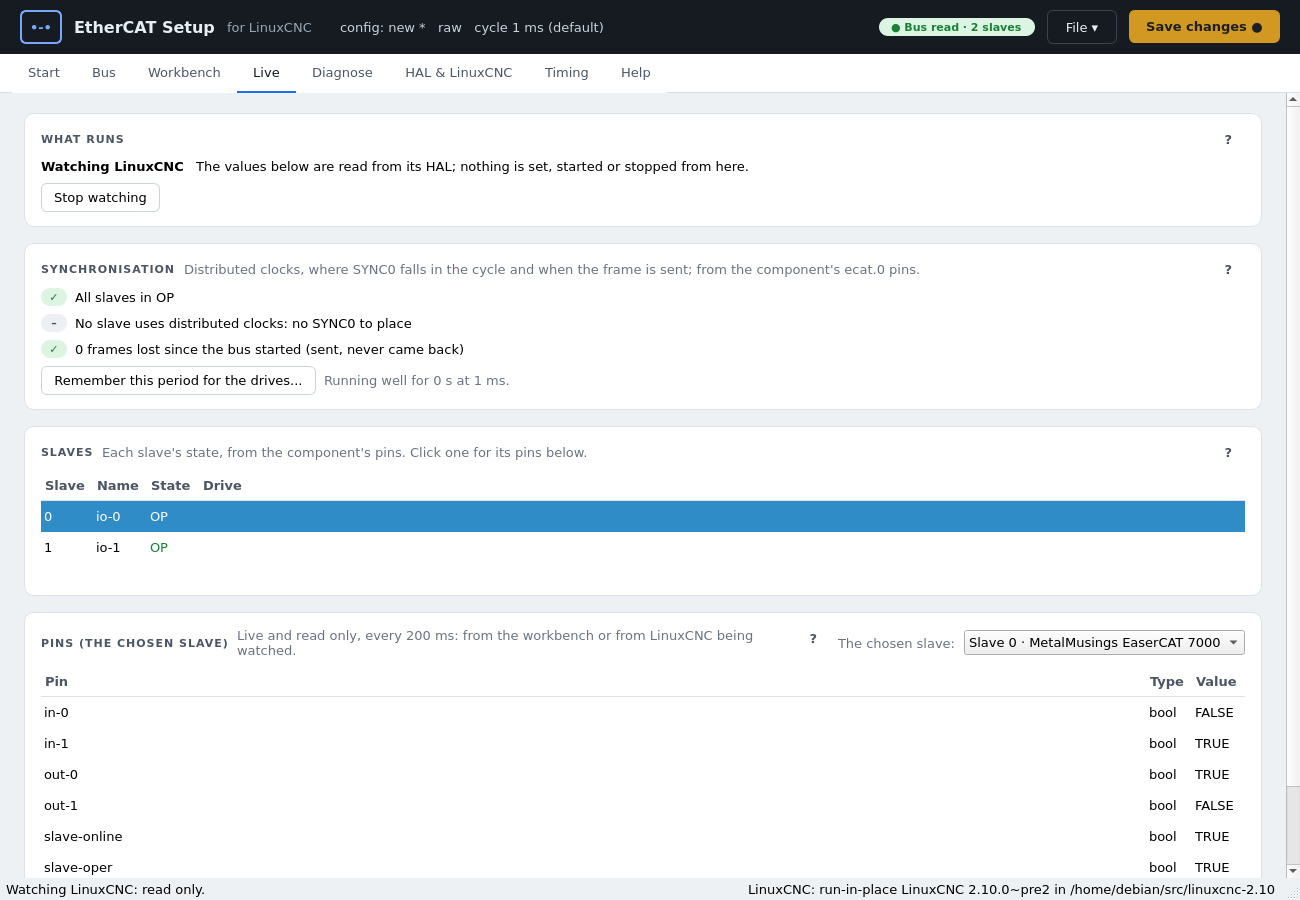
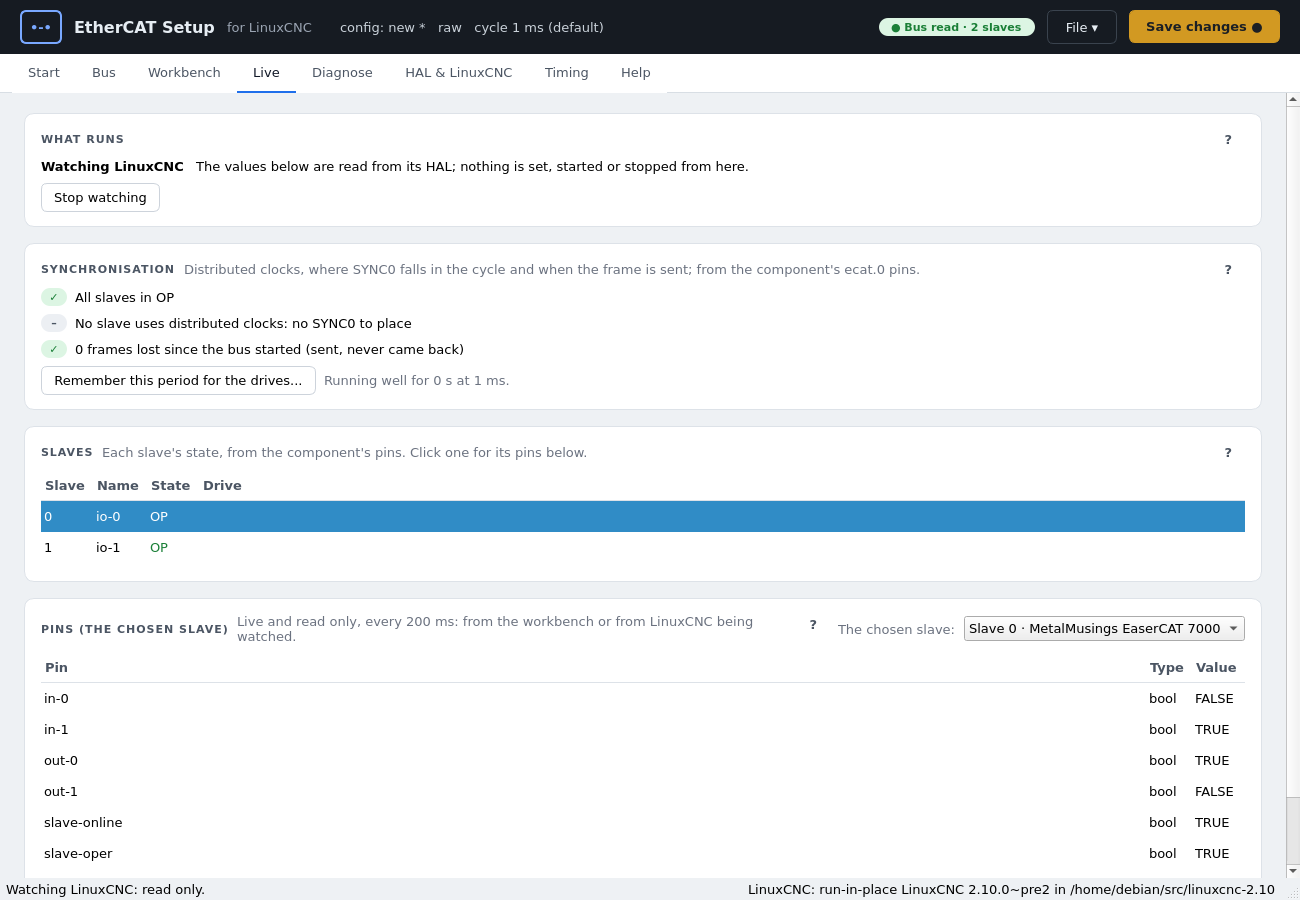
Live: no empty room under the Slaves card's last row
fit_table left room for a horizontal scroll bar under every table; it now
does so only where one may come, and the Slaves table has none.

Changed region(s): [[0.6462, 0.6844, 0.9538, 0.9644], [0.0308, 0.6844, 0.5846, 0.9644]]

diff --git a/ecatsetup/gui.py b/ecatsetup/gui.py
@@ -523,7 +523,8 @@ def fit_table(t, minimum=1):
         h += t.rowHeight(r)
     if t.rowCount() < minimum:
         h += 30 * (minimum - t.rowCount())
-    h += t.horizontalScrollBar().sizeHint().height()
+    if t.horizontalScrollBarPolicy() != Qt.ScrollBarAlwaysOff:
+        h += t.horizontalScrollBar().sizeHint().height()     # room for it, when it may come
     t.setFixedHeight(h)
 
 
@@ -3658,6 +3659,8 @@ class LivePage(QWidget):
                                        "Click one for its pins below.")
         self.overview_table = table(["Slave", "Name", "State", "Drive"], 3)
         self.overview_table.cellClicked.connect(self.row_chosen)
+        # four short columns: no scroll bar, and no room left for one under the last row
+        self.overview_table.setHorizontalScrollBarPolicy(Qt.ScrollBarAlwaysOff)
         self.overview.add(self.overview_table)
         self.overview.hide()
         lay.insertWidget(lay.indexOf(self.pins_card), self.overview)

diff --git a/tests/test_gui.py b/tests/test_gui.py
@@ -992,6 +992,9 @@ class TestWindow(WindowBase):
             scroll.assert_called_once()
             live.update_overview(every)
             self.assertEqual(t.currentRow(), 1)
+            # as tall as its header and rows: no empty row under the last
+            self.assertEqual(t.height(), t.horizontalHeader().sizeHint().height() + 4
+                             + sum(t.rowHeight(r) for r in range(t.rowCount())))
         finally:
             w.test = None
 
